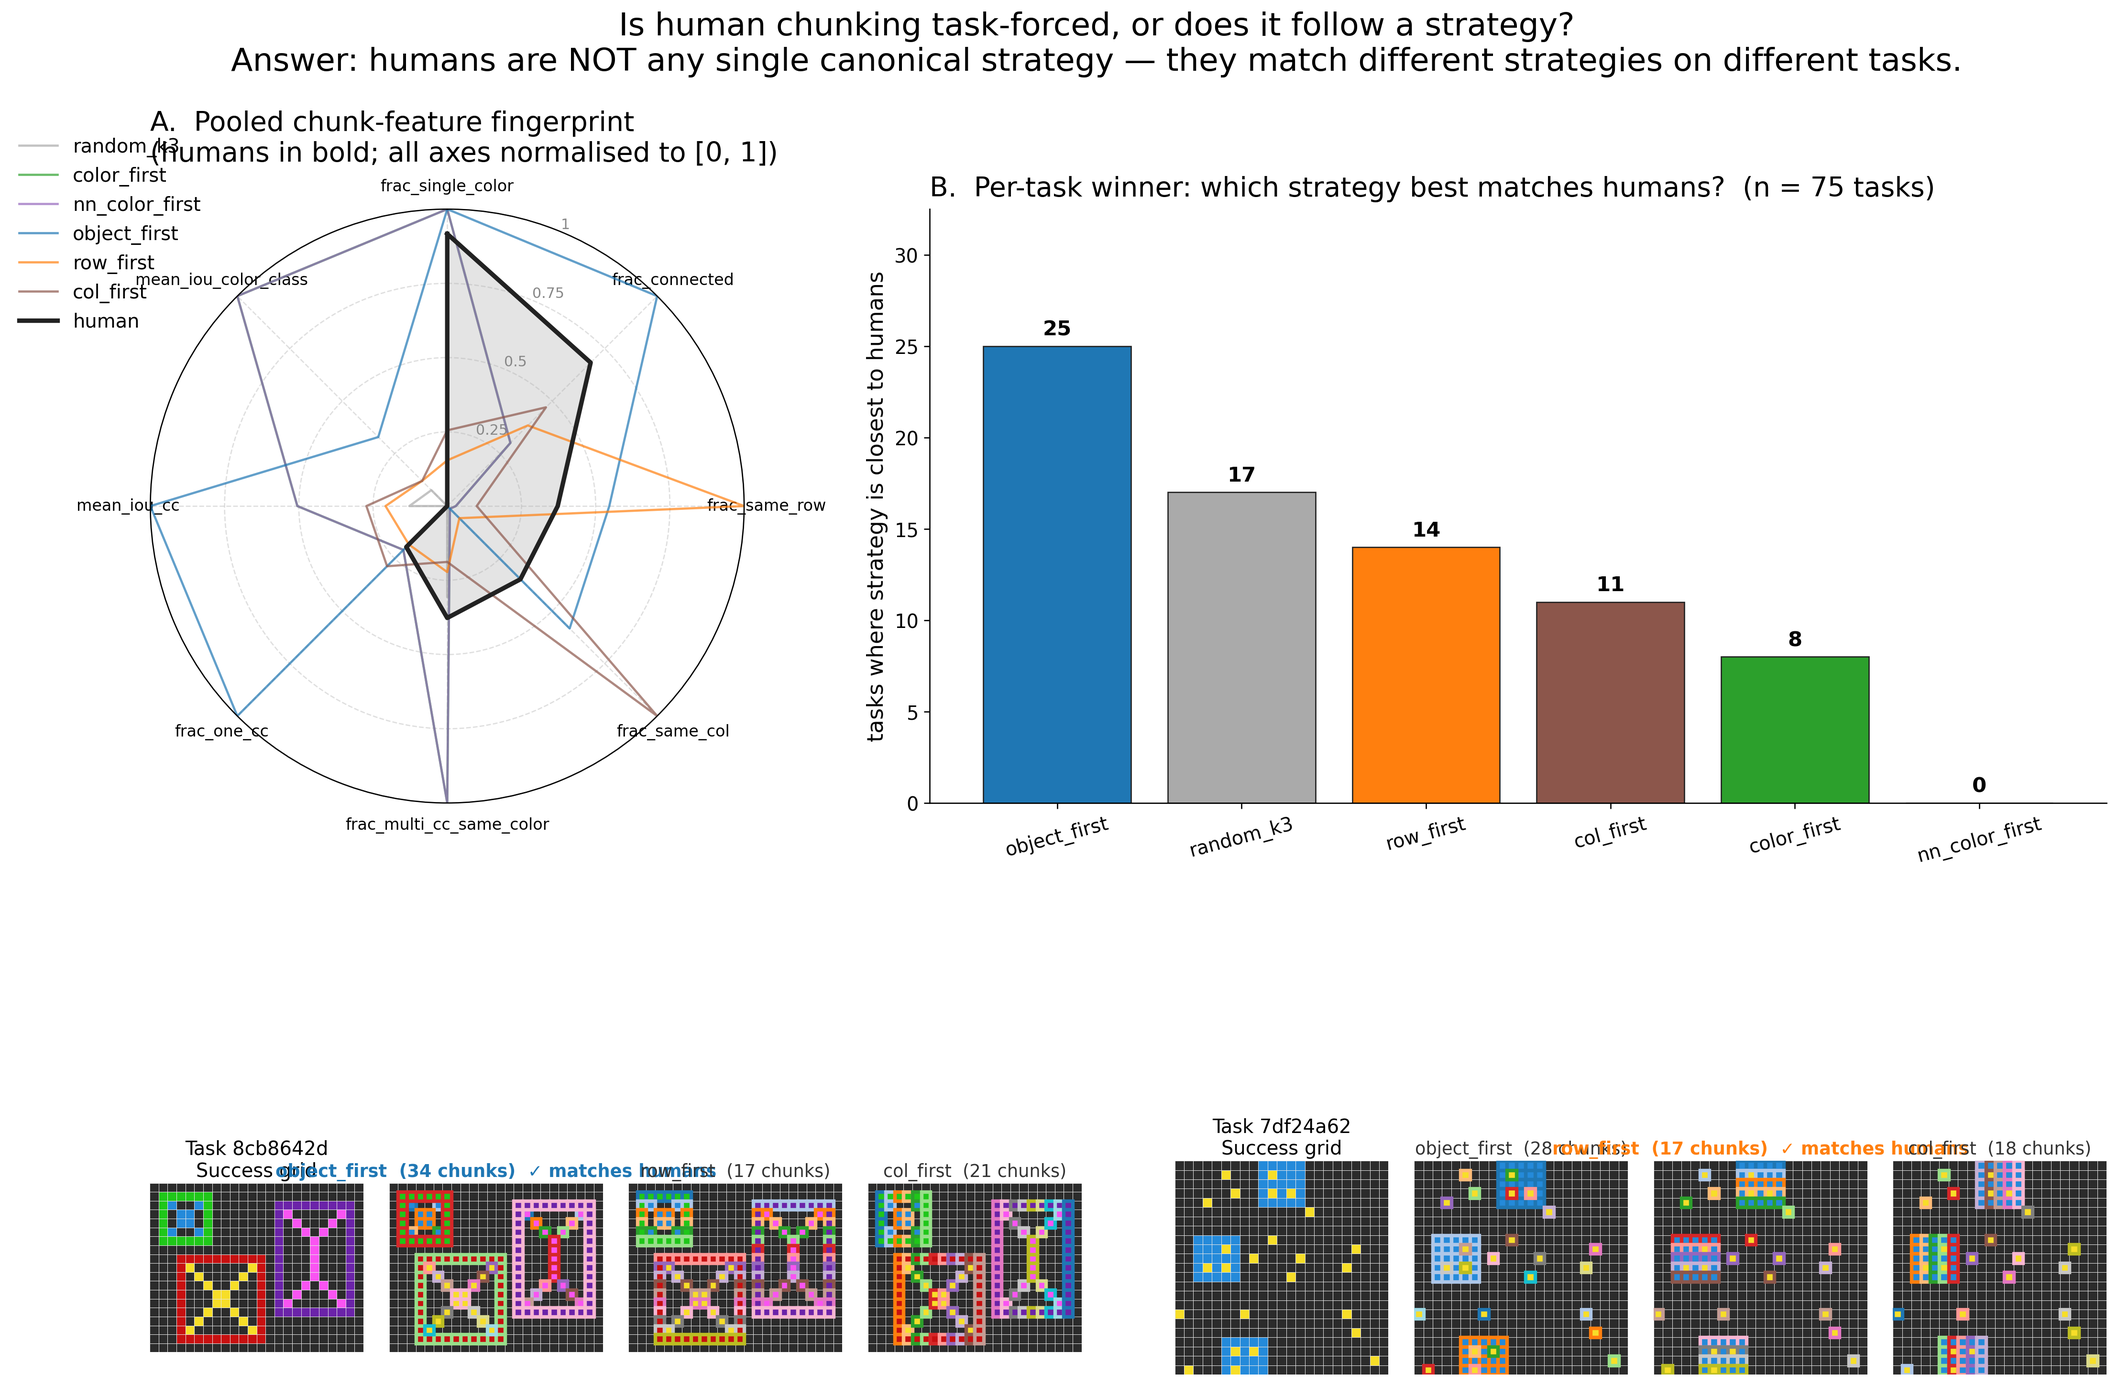
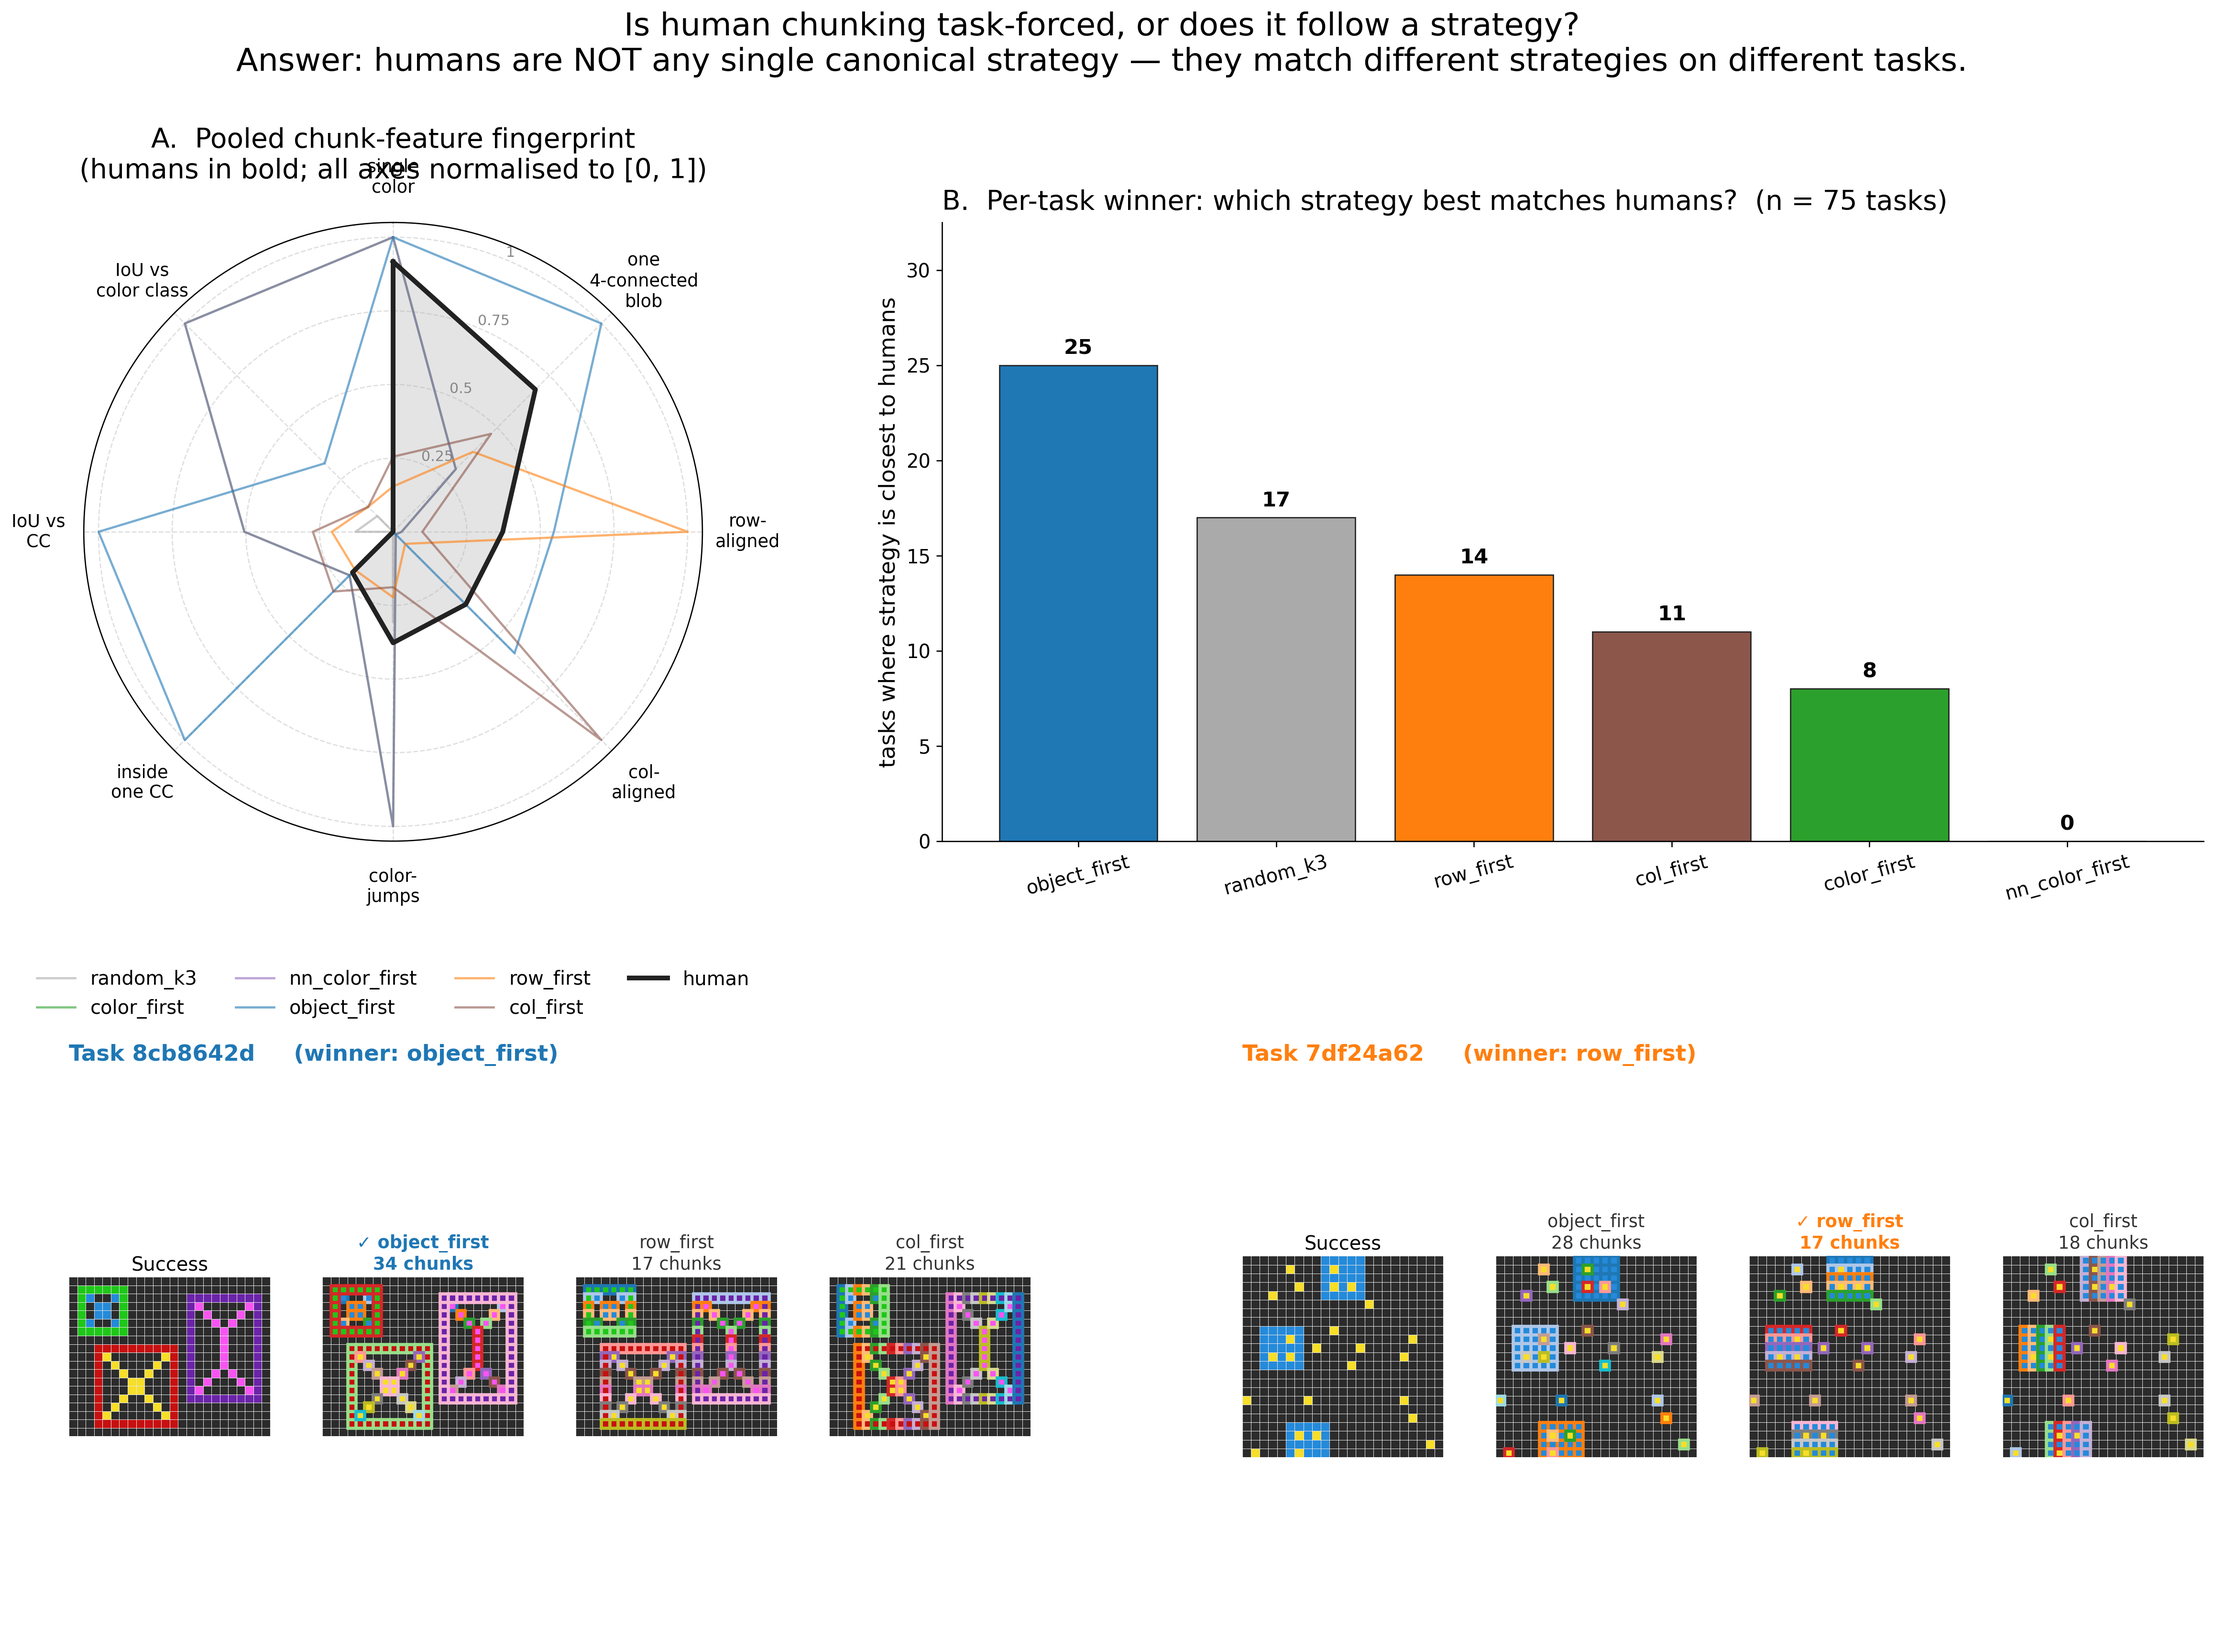
plot_strategies: fix label overlap in radar and case-study panels
- Radar: shortened axis labels (single color / one 4-connected blob /
  row-aligned / col-aligned / color-jumps / inside one CC / IoU vs CC /
  IoU vs color class), pushed them outward with tick padding, and
  moved the legend to a horizontal strip below the radar. Figure size
  bumped to 24x16 for more breathing room.
- Case-study panels: per-example header above the four sub-panels
  instead of per-panel ✓ annotations that collided across the row.
  Two-line panel titles ("object_first / N chunks") so the strategy
  name and chunk count no longer run into siblings. Wider wspace
  between both examples and between panels within each example.

diff --git a/plot_strategies.py b/plot_strategies.py
@@ -80,14 +80,28 @@ def _draw_grid(ax, grid, title=""):
 
 def _radar(ax, features, values_by_label):
     """Classic radar plot. values_by_label = {label: [v1, v2, ...]}."""
+    # Shorten the axis labels so they don't crowd each other.
+    short = {
+        "frac_single_color": "single\ncolor",
+        "frac_connected": "one\n4-connected\nblob",
+        "frac_same_row": "row-\naligned",
+        "frac_same_col": "col-\naligned",
+        "frac_multi_cc_same_color": "color-\njumps",
+        "frac_one_cc": "inside\none CC",
+        "mean_iou_cc": "IoU vs\nCC",
+        "mean_iou_color_class": "IoU vs\ncolor class",
+    }
+    labels = [short.get(f, f) for f in features]
+
     N = len(features)
     angles = np.linspace(0, 2 * np.pi, N, endpoint=False).tolist()
     angles += [angles[0]]
     ax.set_theta_offset(np.pi / 2)
     ax.set_theta_direction(-1)
     ax.set_xticks(angles[:-1])
-    ax.set_xticklabels(features, fontsize=10)
-    ax.set_ylim(0, 1)
+    ax.set_xticklabels(labels, fontsize=11)
+    ax.tick_params(axis="x", pad=18)   # push labels away from the axis
+    ax.set_ylim(0, 1.05)
     ax.set_yticks([0.25, 0.5, 0.75, 1.0])
     ax.set_yticklabels(["0.25", "0.5", "0.75", "1"], fontsize=9, color="#888")
     ax.grid(True, linestyle="--", alpha=0.4)
@@ -97,8 +111,8 @@ def _radar(ax, features, values_by_label):
                    key=lambda k: 0 if k != "human" else 1)
     for label in order:
         vals = values_by_label[label] + [values_by_label[label][0]]
-        lw = 2.8 if label == "human" else 1.4
-        alpha = 1.0 if label == "human" else 0.7
+        lw = 3.0 if label == "human" else 1.4
+        alpha = 1.0 if label == "human" else 0.6
         ax.plot(angles, vals, color=STRAT_COLORS[label],
                 lw=lw, label=label, alpha=alpha)
         if label == "human":
@@ -134,21 +148,24 @@ def build():
     }
 
     # ---- Figure layout: 2 rows. Top = A + B. Bottom = C examples. ----
-    fig = plt.figure(figsize=(22, 15))
+    fig = plt.figure(figsize=(24, 16))
     gs = fig.add_gridspec(
-        2, 3, width_ratios=[1.2, 1.0, 1.0], height_ratios=[1.0, 0.9],
-        hspace=0.35, wspace=0.35,
+        2, 3, width_ratios=[1.25, 1.0, 1.0], height_ratios=[1.05, 0.95],
+        hspace=0.40, wspace=0.40,
     )
 
     # --- A Radar ---
     axA = fig.add_subplot(gs[0, 0], projection="polar")
     _radar(axA, radar_feats, values_by_label)
-    axA.legend(loc="upper left", bbox_to_anchor=(-0.25, 1.15),
-               frameon=False, fontsize=12)
+    # Legend placed BELOW the radar so it does not hit the axis labels.
+    axA.legend(
+        loc="upper center", bbox_to_anchor=(0.5, -0.18),
+        ncol=4, frameon=False, fontsize=12,
+    )
     axA.set_title(
         "A.  Pooled chunk-feature fingerprint\n"
         "(humans in bold; all axes normalised to [0, 1])",
-        loc="left", pad=30,
+        loc="center", pad=28,
     )
 
     # --- B Per-task winner bars ---
@@ -187,19 +204,34 @@ def build():
     examples = [("object_first", pick.get("object_first")),
                 ("row_first", pick.get("row_first"))]
 
-    # Dedicate the bottom row to 2 examples × (Success + 3 strategies)
+    # Dedicate the bottom row to 2 examples × (Success + 3 strategies).
+    # Wider spacing between the two examples and between panels so the
+    # per-strategy titles don't collide.
     outer = gs[1, :]
-    ex_gs = outer.subgridspec(1, 2, wspace=0.1)
+    ex_gs = outer.subgridspec(1, 2, wspace=0.22)
     for ex_idx, (winner, tid) in enumerate(examples):
         if tid is None:
             continue
-        panel = ex_gs[0, ex_idx].subgridspec(1, 4, wspace=0.12)
+        panel = ex_gs[0, ex_idx].subgridspec(1, 4, wspace=0.26)
         success = _success_grid(tid)
-        # Grid success
-        ax1 = fig.add_subplot(panel[0, 0])
-        _draw_grid(ax1, success, title=f"Task {tid}\nSuccess grid")
 
-        # Chunks visualisation for each of 3 strategies: object, row, col
+        # Example header, placed above all four sub-panels via a
+        # transparent axis spanning the row.
+        ax_hdr = fig.add_subplot(ex_gs[0, ex_idx]); ax_hdr.set_axis_off()
+        ax_hdr.text(
+            0.0, 1.02,
+            f"Task {tid}     (winner: {winner})",
+            transform=ax_hdr.transAxes,
+            fontsize=14, fontweight="bold",
+            color=STRAT_COLORS[winner], ha="left", va="bottom",
+        )
+
+        # Panel 0: Success grid
+        ax1 = fig.add_subplot(panel[0, 0])
+        _draw_grid(ax1, success, title="Success")
+
+        # Panels 1-3: strategy renderings. Titles on two lines so they
+        # fit and the ✓ badge doesn't collide with siblings.
         for i, (label, fn) in enumerate((
                 ("object_first", strategy_object_first),
                 ("row_first", strategy_row_first),
@@ -214,13 +246,16 @@ def build():
                     ax.add_patch(Rectangle(
                         (e["x"] - 0.5, e["y"] - 0.5), 1, 1,
                         facecolor=ARC_COLORS_HEX.get(e["color"], "#fff"),
-                        edgecolor=face, linewidth=2.2))
-            title = f"{label}  ({len(chunks)} chunks)"
-            if label == winner:
-                title += "  ✓ matches humans"
-            ax.set_title(title, fontsize=11, pad=4,
-                         color=STRAT_COLORS[label] if label == winner else "#333",
-                         fontweight="bold" if label == winner else "normal")
+                        edgecolor=face, linewidth=2.0))
+            is_winner = (label == winner)
+            prefix = "✓ " if is_winner else ""
+            title = f"{prefix}{label}\n{len(chunks)} chunks"
+            ax.set_title(
+                title,
+                fontsize=11, pad=5,
+                color=STRAT_COLORS[label] if is_winner else "#333",
+                fontweight="bold" if is_winner else "normal",
+            )
             ax.set_aspect("equal"); ax.set_xticks([]); ax.set_yticks([])
             for s in ax.spines.values(): s.set_visible(False)
 
